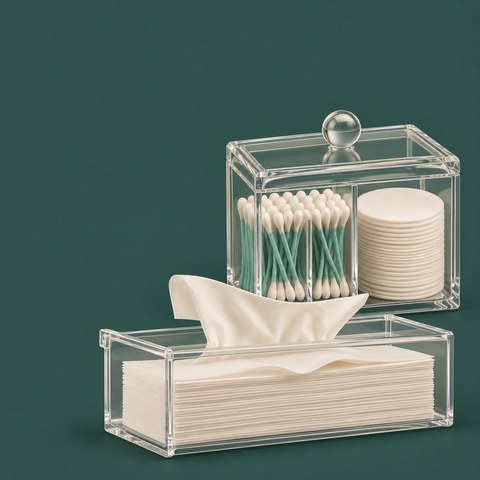
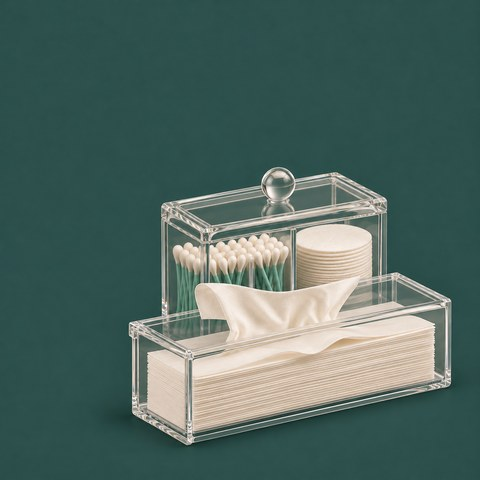
Dispensers square: both boxes in the same three-quarter view

diff --git a/styles.css b/styles.css
@@ -646,7 +646,7 @@ ul { margin: 0; padding: 0; list-style: none; }
 .ig-banner[data-banner="dispo-sredstva-dlya-zaschity"] { --cb-bg: #c7e0df; }
 .ig-banner[data-banner="dispo-prostyni-i-pokrytiya"]   { --cb-bg: #f2d7c7; }
 .ig-banner[data-banner="dispo-polotenca-i-salfetki"]   { --cb-bg: #cbdefb; }
-.ig-banner[data-banner="dispo-dispensery-i-oborudovanie-dlya-rashodnyh-materialov"] { --cb-bg: #30524c; color: var(--text-on-dark); }
+.ig-banner[data-banner="dispo-dispensery-i-oborudovanie-dlya-rashodnyh-materialov"] { --cb-bg: #2c504c; color: var(--text-on-dark); }
 
 /* ==========================================================================
    ПАНЕЛЬ ИНСТРУМЕНТОВ: «Фильтры», чипы брендов (Tag), счётчик, сортировка (Menu)
